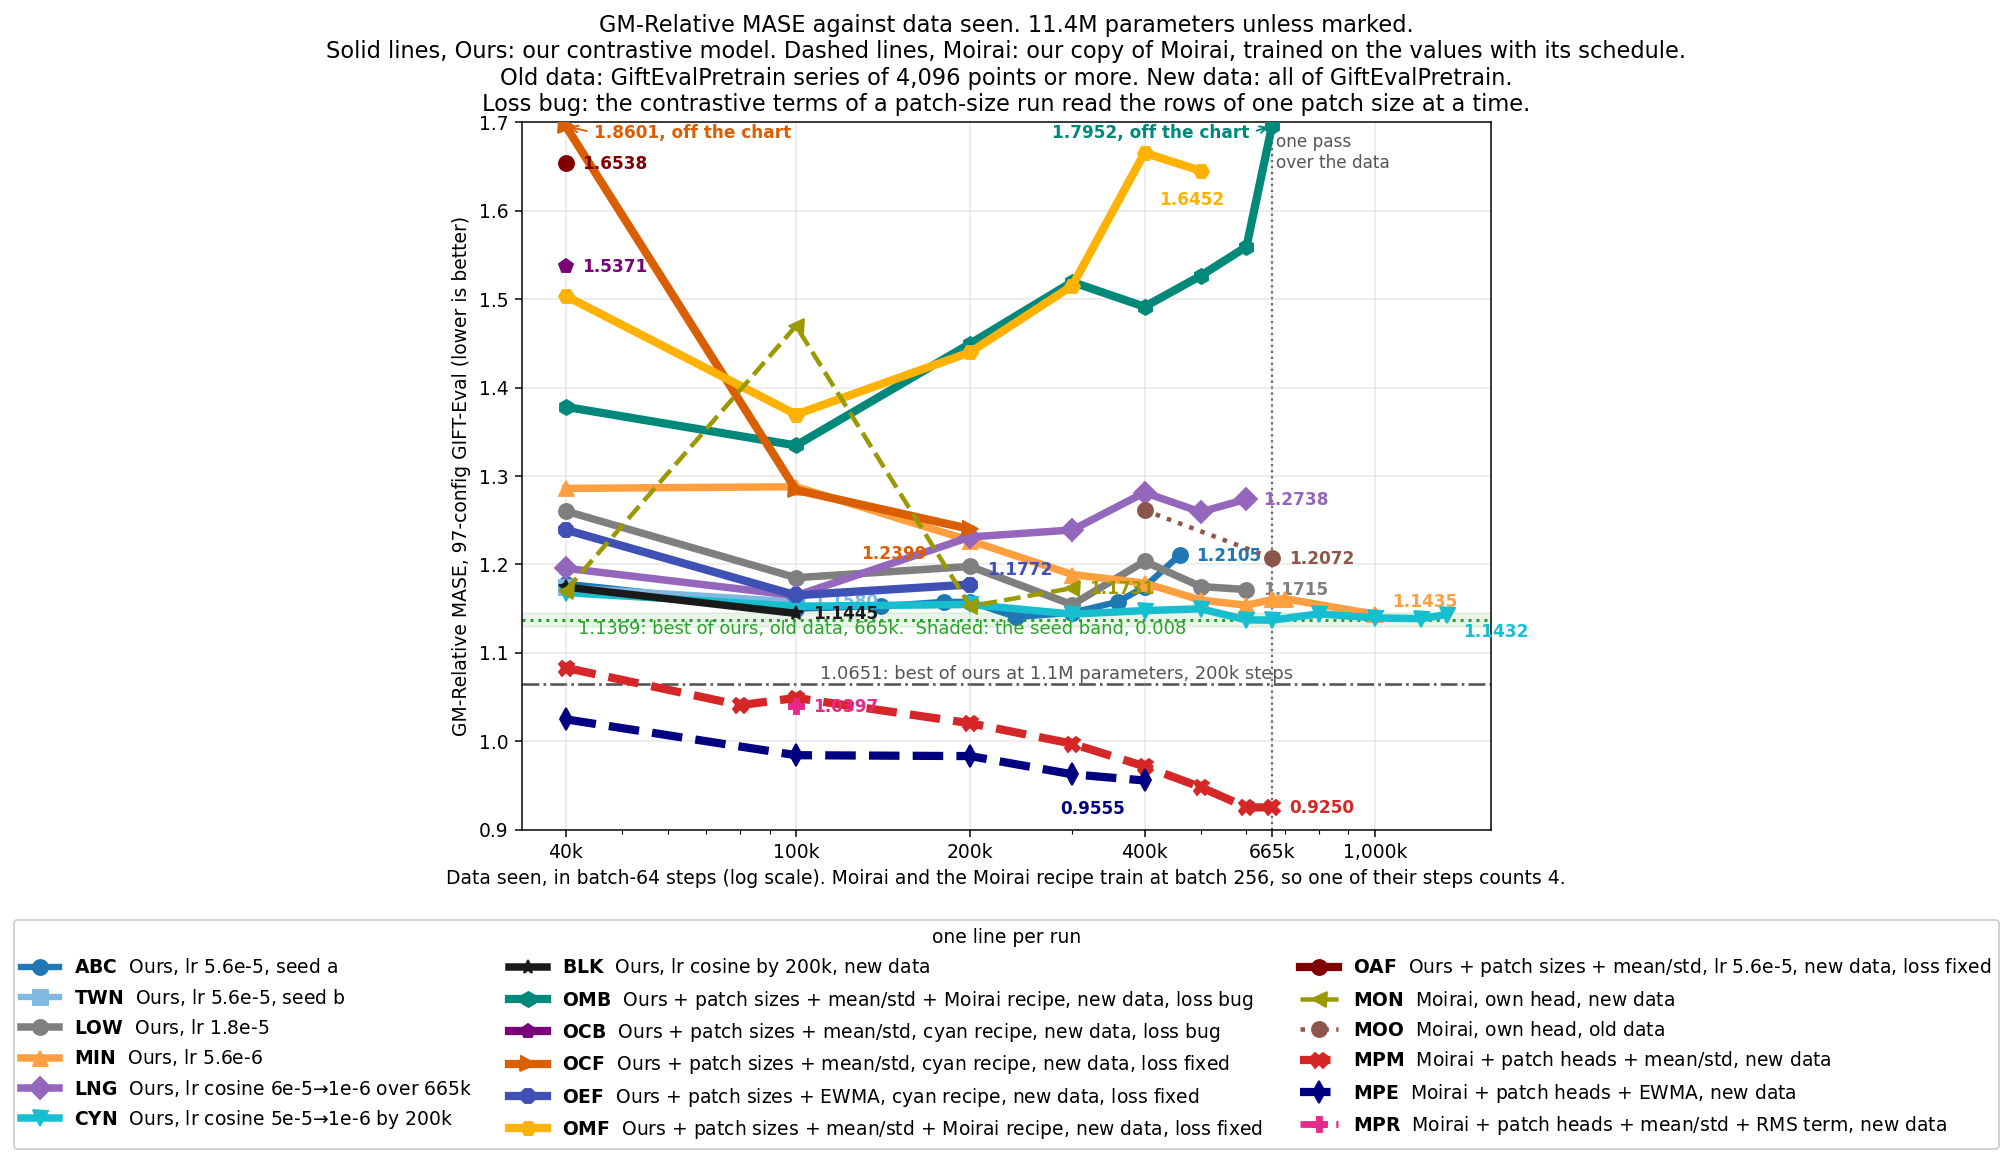
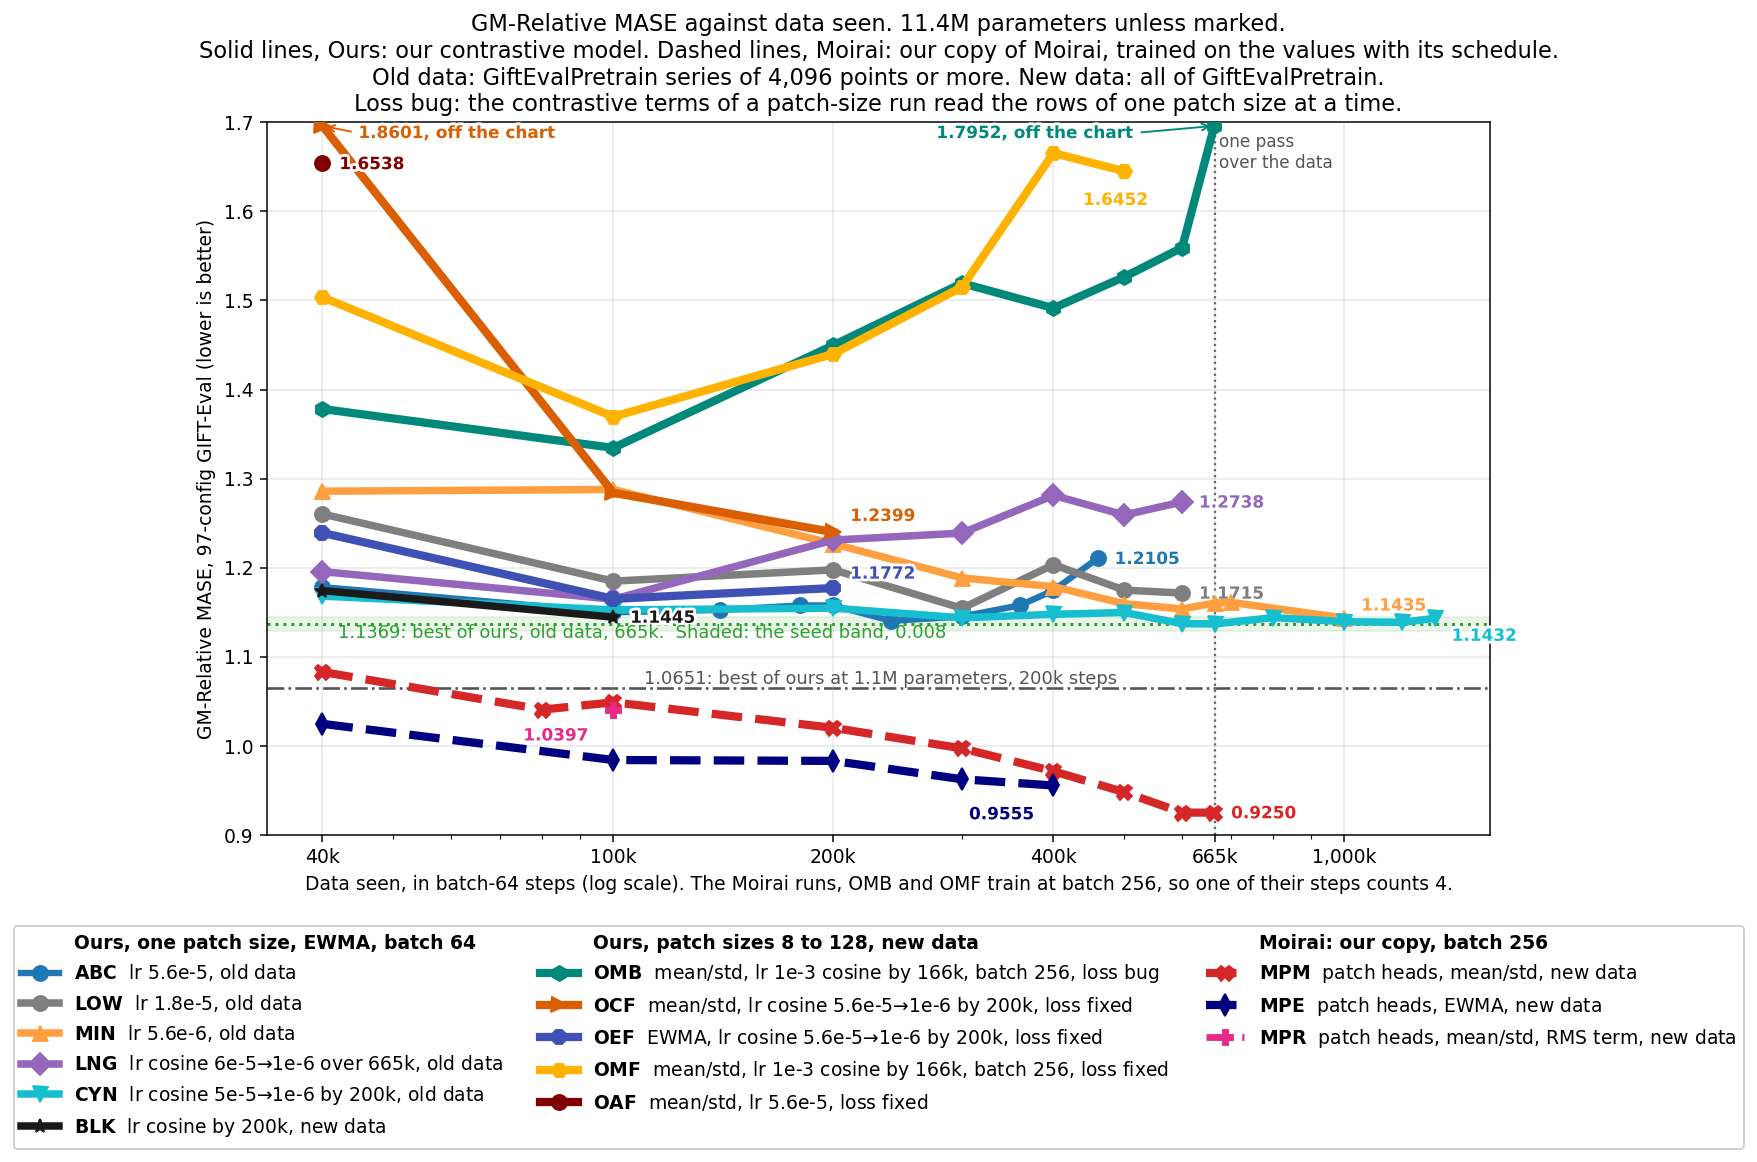
exp(#412): the GM legend groups the runs; TWN, OCB, MON and MOO move to a second figure
The legend has one column per group: ours with one patch size, ours with
patch sizes 8 to 128, and our copy of Moirai. Each label gives what
differs in its group: the scaling, the lr schedule, the data and the loss
fix. gm_mase_rates_all.png keeps every run. A white outline keeps each
score label readable where a line crosses it.

diff --git a/reports/2026-09-06_moirai_small_size/scripts/plot_gm_rates.py b/reports/2026-09-06_moirai_small_size/scripts/plot_gm_rates.py
@@ -1,12 +1,14 @@
-"""GM-Relative MASE against data seen: each backbone rate, the two cosine
-anneals, the value-space reference of #415, and the #419 runs on all of
-GiftEvalPretrain. Reads
-results/gm_trajectories.tsv (scripts/gm_trajectories.py writes it)."""
+"""GM-Relative MASE against data seen, one line per run, in three groups: ours
+with one patch size, ours with patch sizes 8 to 128, and our copy of Moirai.
+Draws two figures: gm_mase_rates.png with the runs the owner follows, and
+gm_mase_rates_all.png with every run. Reads results/gm_trajectories.tsv
+(scripts/gm_trajectories.py writes it)."""
 from collections import defaultdict
 from pathlib import Path
 
 import matplotlib
 matplotlib.use("Agg")
+import matplotlib.patheffects as patheffects
 import matplotlib.pyplot as plt
 
 from run_style import P, colour, line, tagged
@@ -14,37 +16,43 @@ from run_style import P, colour, line, tagged
 STUDY = Path(__file__).resolve().parent.parent
 TSV = STUDY / "results" / "gm_trajectories.tsv"
 OUT = STUDY / "plots" / "gm_mase_rates.png"
+OUT_ALL = STUDY / "plots" / "gm_mase_rates_all.png"
 
-# arm, label, line width, marker. The colour and the line style come from
-# run_style.py, so a run looks the same in every figure.
-RUNS = [
-    # Ours: our contrastive model. The lr 5.6e-4 run (arm P) keeps its scores in
-    # results/gm_trajectories.tsv; the owner took it off this figure. So do
-    # the stopped runs b2cos (1.1M, the wrong width), cf421z_moirai_native
-    # (fp16), cf421fb_moirai_native (GRU bound) and cf415_moirai (a separate
-    # head, a mistake). The owner brought cf419_moirai_native back on 10-01.
-    (P + "_lr10x",    "Ours, lr 5.6e-5, seed a",                  3.4, "o"),
-    (P + "_lr10xb",   "Ours, lr 5.6e-5, seed b",                  3.4, "s"),
-    (P + "_lr30x",    "Ours, lr 1.8e-5",                          4.0, "o"),
-    (P + "_lr100x",   "Ours, lr 5.6e-6",                          4.0, "^"),
-    (P + "_cos665k",  "Ours, lr cosine 6e-5→1e-6 over 665k",      4.0, "D"),
-    (P + "_cos200k",  "Ours, lr cosine 5e-5→1e-6 by 200k",        4.0, "v"),
-    ("cf419_cos200k", "Ours, lr cosine by 200k, new data",        4.0, "*"),
-    ("cf412om", "Ours + patch sizes + mean/std + Moirai recipe, new data, loss bug", 4.4, "h"),
-    ("cf412oc", "Ours + patch sizes + mean/std, cyan recipe, new data, loss bug", 4.4, "p"),
-    ("cf412oc2", "Ours + patch sizes + mean/std, cyan recipe, new data, loss fixed", 4.4, ">"),
-    ("cf412oe2", "Ours + patch sizes + EWMA, cyan recipe, new data, loss fixed", 4.4, "8"),
-    ("cf412om2", "Ours + patch sizes + mean/std + Moirai recipe, new data, loss fixed", 4.4, "H"),
-    ("cf412oa2", "Ours + patch sizes + mean/std, lr 5.6e-5, new data, loss fixed", 4.4, "o"),
-    # Moirai: our copy of Moirai, trained on the values with its schedule.
-    ("cf419_moirai_native", "Moirai, own head, new data",                2.4, "<"),
-    ("cf415_moirai_native", "Moirai, own head, old data",                   2.4, "o"),
-    ("cf421f_moirai_native", "Moirai + patch heads + mean/std, new data", 4.4, "X"),
-    ("cf421ew_moirai_native", "Moirai + patch heads + EWMA, new data",    4.4, "d"),
-    ("cf421n_moirai_native", "Moirai + patch heads + mean/std + RMS term, new data", 3.6, "P"),
+# One legend column per group of runs: the group's name, then per run its
+# arm, label, line width and marker. The colour and the line style come from
+# run_style.py, so a run looks the same in every figure. Off both figures:
+# the lr 5.6e-4 run (arm P), b2cos (1.1M, the wrong width),
+# cf421z_moirai_native (fp16), cf421fb_moirai_native (GRU bound) and
+# cf415_moirai (a separate head, a mistake). Their scores stay in
+# results/gm_trajectories.tsv.
+GROUPS = [
+    ("Ours, one patch size, EWMA, batch 64", [
+        (P + "_lr10x",    "lr 5.6e-5, old data",                      3.4, "o"),
+        (P + "_lr10xb",   "lr 5.6e-5, old data, second seed",         3.4, "s"),
+        (P + "_lr30x",    "lr 1.8e-5, old data",                      4.0, "o"),
+        (P + "_lr100x",   "lr 5.6e-6, old data",                      4.0, "^"),
+        (P + "_cos665k",  "lr cosine 6e-5→1e-6 over 665k, old data", 4.0, "D"),
+        (P + "_cos200k",  "lr cosine 5e-5→1e-6 by 200k, old data",   4.0, "v"),
+        ("cf419_cos200k", "lr cosine by 200k, new data",              4.0, "*"),
+    ]),
+    ("Ours, patch sizes 8 to 128, new data", [
+        ("cf412om",  "mean/std, lr 1e-3 cosine by 166k, batch 256, loss bug",   4.4, "h"),
+        ("cf412oc",  "mean/std, lr cosine 5.6e-5→1e-6 by 200k, loss bug",       4.4, "p"),
+        ("cf412oc2", "mean/std, lr cosine 5.6e-5→1e-6 by 200k, loss fixed",     4.4, ">"),
+        ("cf412oe2", "EWMA, lr cosine 5.6e-5→1e-6 by 200k, loss fixed",         4.4, "8"),
+        ("cf412om2", "mean/std, lr 1e-3 cosine by 166k, batch 256, loss fixed", 4.4, "H"),
+        ("cf412oa2", "mean/std, lr 5.6e-5, loss fixed",                         4.4, "o"),
+    ]),
+    ("Moirai: our copy, batch 256", [
+        ("cf419_moirai_native",   "own head, new data",                        2.4, "<"),
+        ("cf415_moirai_native",   "own head, old data",                        2.4, "o"),
+        ("cf421f_moirai_native",  "patch heads, mean/std, new data",           4.4, "X"),
+        ("cf421ew_moirai_native", "patch heads, EWMA, new data",               4.4, "d"),
+        ("cf421n_moirai_native",  "patch heads, mean/std, RMS term, new data", 3.6, "P"),
+    ]),
 ]
-SERIES = [(arm, tagged(arm, label), colour(arm), width, marker, line(arm))
-          for arm, label, width, marker in RUNS]
+# The owner took TWN, OCB, MON and MOO off the main figure on 10-03.
+OFF_MAIN = {P + "_lr10xb", "cf412oc", "cf419_moirai_native", "cf415_moirai_native"}
 # Moirai and cf412om train at batch 256: one of their steps holds the data
 # of four batch-64 steps.
 XSCALE = {"cf415_moirai": 4, "cf415_moirai_native": 4, "cf419_moirai_native": 4,
@@ -53,8 +61,10 @@ XSCALE = {"cf415_moirai": 4, "cf415_moirai_native": 4, "cf419_moirai_native": 4,
           "cf412om2": 4}
 # Where the last score of a line prints, so two lines that end together part.
 END_LABEL_OFFSET = {P + "_lr100x": (9, 4), P + "_cos200k": (9, -12), "cf412om": (-62, 6),
-                    "cf412oc2": (-58, -16), "cf412oe2": (9, 5), "cf412om2": (-22, -18),
-                    "cf421ew_moirai_native": (-45, -18)}
+                    "cf412oc2": (9, 6), "cf412oe2": (9, 5), "cf412om2": (-22, -18),
+                    "cf421ew_moirai_native": (-45, -18), "cf421n_moirai_native": (-48, -16)}
+# A white outline keeps a score label readable where a line crosses it.
+HALO = [patheffects.withStroke(linewidth=3, foreground="white")]
 # How far left of its point an off-the-chart label starts, so two such labels part.
 OFF_LABEL_DIV = {"cf412om": 2.4}
 BEST, BAND, PROJECT_BEST = 1.1369, 0.008, 1.0651
@@ -69,12 +79,14 @@ def load_points():
     return points
 
 
-def draw_series(ax, arm, label, colour, width, marker, style, points):
+def draw_series(ax, arm, width, marker, points):
+    """One run's line and its score labels. Returns the line."""
     x, y = zip(*sorted(points))
     x = [v * XSCALE.get(arm, 1) for v in x]
     shown = [min(v, YMAX - 0.004) for v in y]
-    ax.plot(x, shown, style, color=colour, lw=width, marker=marker, ms=8,
-            label=label, zorder=3)
+    hue = colour(arm)
+    handle, = ax.plot(x, shown, line(arm), color=hue, lw=width, marker=marker, ms=8,
+                      zorder=3)
     above = [(xi, yi) for xi, yi in zip(x, y) if yi > YMAX]
     if above:
         # One label lists the points off the chart and points at the last of
@@ -87,13 +99,29 @@ def draw_series(ax, arm, label, colour, width, marker, style, points):
         values = ", ".join(f"{yi:.4f}" for _, yi in above)
         ax.annotate(f"{values}, off the chart", (xi, YMAX - 0.004),
                     xytext=(label_x, YMAX - 0.012), va="center",
-                    fontsize=9, color=colour, weight="bold",
-                    arrowprops=dict(arrowstyle="->", color=colour, lw=1,
+                    fontsize=9, color=hue, weight="bold", path_effects=HALO,
+                    arrowprops=dict(arrowstyle="->", color=hue, lw=1,
                                     relpos=(0, 0.5) if right_of_point else (1, 0.5)))
     if y[-1] <= YMAX:
         ax.annotate(f"{y[-1]:.4f}", (x[-1], shown[-1]), textcoords="offset points",
                     xytext=END_LABEL_OFFSET.get(arm, (9, -3)), fontsize=9,
-                    color=colour, weight="bold")
+                    color=hue, weight="bold", path_effects=HALO)
+    return handle
+
+
+def draw_legend(ax, groups, handles):
+    """One column per group of runs, under the group's name in bold."""
+    rows = 1 + max(len(runs) for _, runs in groups)
+    blank = plt.Line2D([], [], linestyle="none")
+    entries = []
+    for name, runs in groups:
+        column = [(blank, name)] + [(handles[arm], tagged(arm, label))
+                                    for arm, label, *_ in runs if arm in handles]
+        entries += column + [(blank, "")] * (rows - len(column))
+    legend = ax.legend(*zip(*entries), ncol=len(GROUPS), fontsize=10, loc="upper center",
+                       bbox_to_anchor=(0.5, -0.115), framealpha=0.94)
+    for text in legend.get_texts()[::rows]:
+        text.set_fontweight("bold")
 
 
 def draw_references(ax):
@@ -109,19 +137,13 @@ def draw_references(ax):
             color="#555555", va="top")
 
 
-def main():
-    points = load_points()
-    fig, ax = plt.subplots(figsize=(12.5, 9.0))
-    for arm, *style in SERIES:
-        if arm in points:
-            draw_series(ax, arm, *style, points[arm])
-    draw_references(ax)
+def style_axes(ax):
     ax.set_xscale("log")
     ticks = [40000, 100000, 200000, 400000, 665000, 1000000]
     ax.set_xticks(ticks)
     ax.set_xticklabels(["40k", "100k", "200k", "400k", "665k", "1,000k"])
-    ax.set_xlabel("Data seen, in batch-64 steps (log scale). Moirai and the Moirai "
-                  "recipe train at batch 256, so one of their steps counts 4.")
+    ax.set_xlabel("Data seen, in batch-64 steps (log scale). The Moirai runs, OMB and OMF "
+                  "train at batch 256, so one of their steps counts 4.")
     ax.set_ylabel("GM-Relative MASE, 97-config GIFT-Eval (lower is better)")
     ax.set_title("GM-Relative MASE against data seen. 11.4M parameters unless marked.\n"
                  "Solid lines, Ours: our contrastive model. Dashed lines, Moirai: "
@@ -131,11 +153,26 @@ def main():
                  "Loss bug: the contrastive terms of a patch-size run read the rows of one patch size at a time.")
     ax.grid(alpha=0.3)
     ax.set_ylim(YMIN, YMAX)
-    ax.legend(fontsize=10, loc="upper center", bbox_to_anchor=(0.5, -0.115),
-              ncol=3, framealpha=0.94, title="one line per run")
+
+
+def draw_figure(groups, out):
+    points = load_points()
+    fig, ax = plt.subplots(figsize=(12.5, 9.0))
+    handles = {arm: draw_series(ax, arm, width, marker, points[arm])
+               for _, runs in groups for arm, _, width, marker in runs if arm in points}
+    draw_references(ax)
+    style_axes(ax)
+    draw_legend(ax, groups, handles)
     fig.tight_layout()
-    fig.savefig(OUT, dpi=135, bbox_inches="tight")
-    print(f"wrote {OUT}")
+    fig.savefig(out, dpi=135, bbox_inches="tight")
+    plt.close(fig)
+    print(f"wrote {out}")
+
+
+def main():
+    followed = [(name, [run for run in runs if run[0] not in OFF_MAIN]) for name, runs in GROUPS]
+    draw_figure(followed, OUT)
+    draw_figure(GROUPS, OUT_ALL)
 
 
 main()
